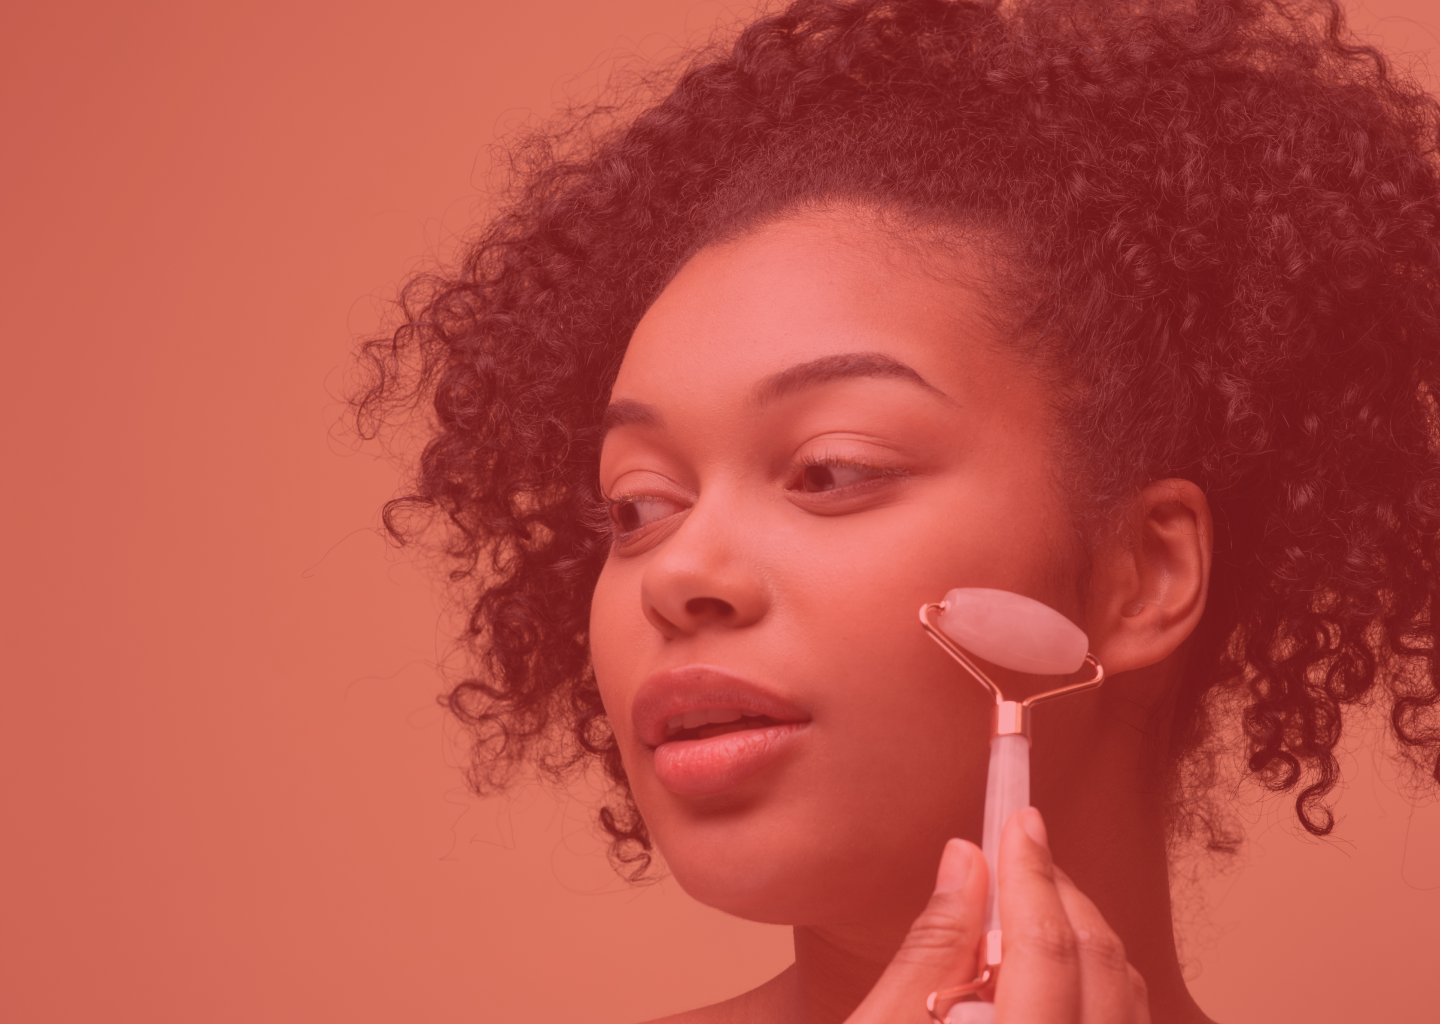
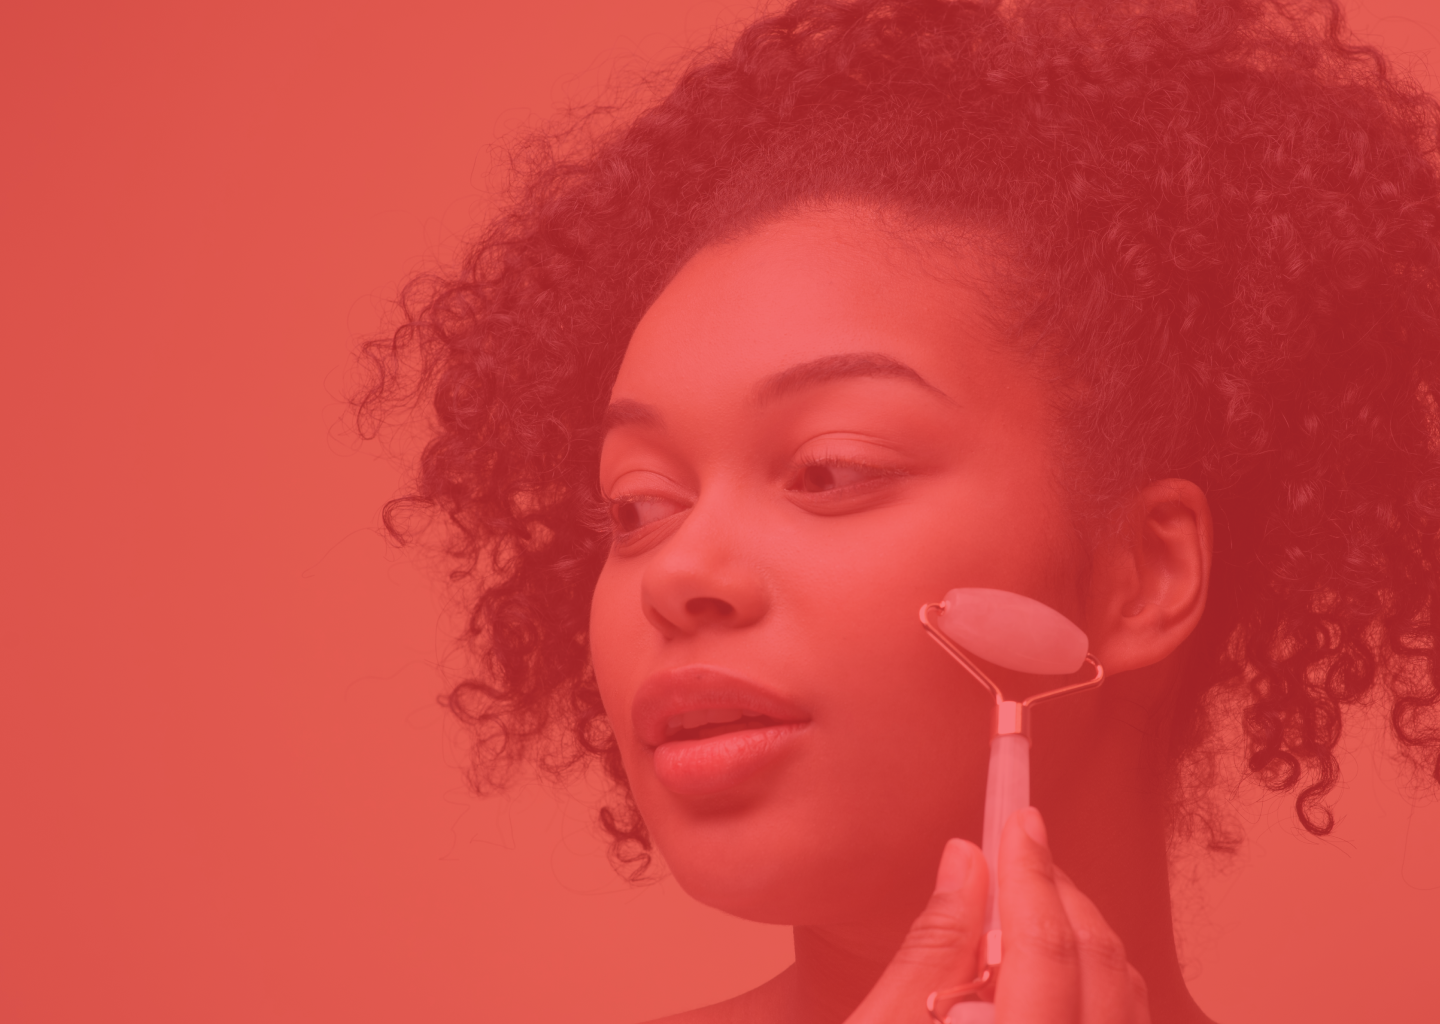
mudança de fundo home

diff --git a/index.html b/index.html
@@ -21,7 +21,7 @@
                 <p style="font-size: 80px;">{LeftSkin</p>
                 <h1 style="font-size: 80px; font-weight: 250;"> melhores cremes do mundo</h1>
                 <a href="./pages/lancamentos/index.html" class="btn text-white"
-                    style="background-color: #F3333A; font-size: 50px; font-weight: 250; opacity: 70%;">Lançamentos</a>
+                    style="background-color: #94162D; font-size: 50px; font-weight: 250; opacity: 70%;">Lançamentos</a>
         </div>
     </main>
 </body>
